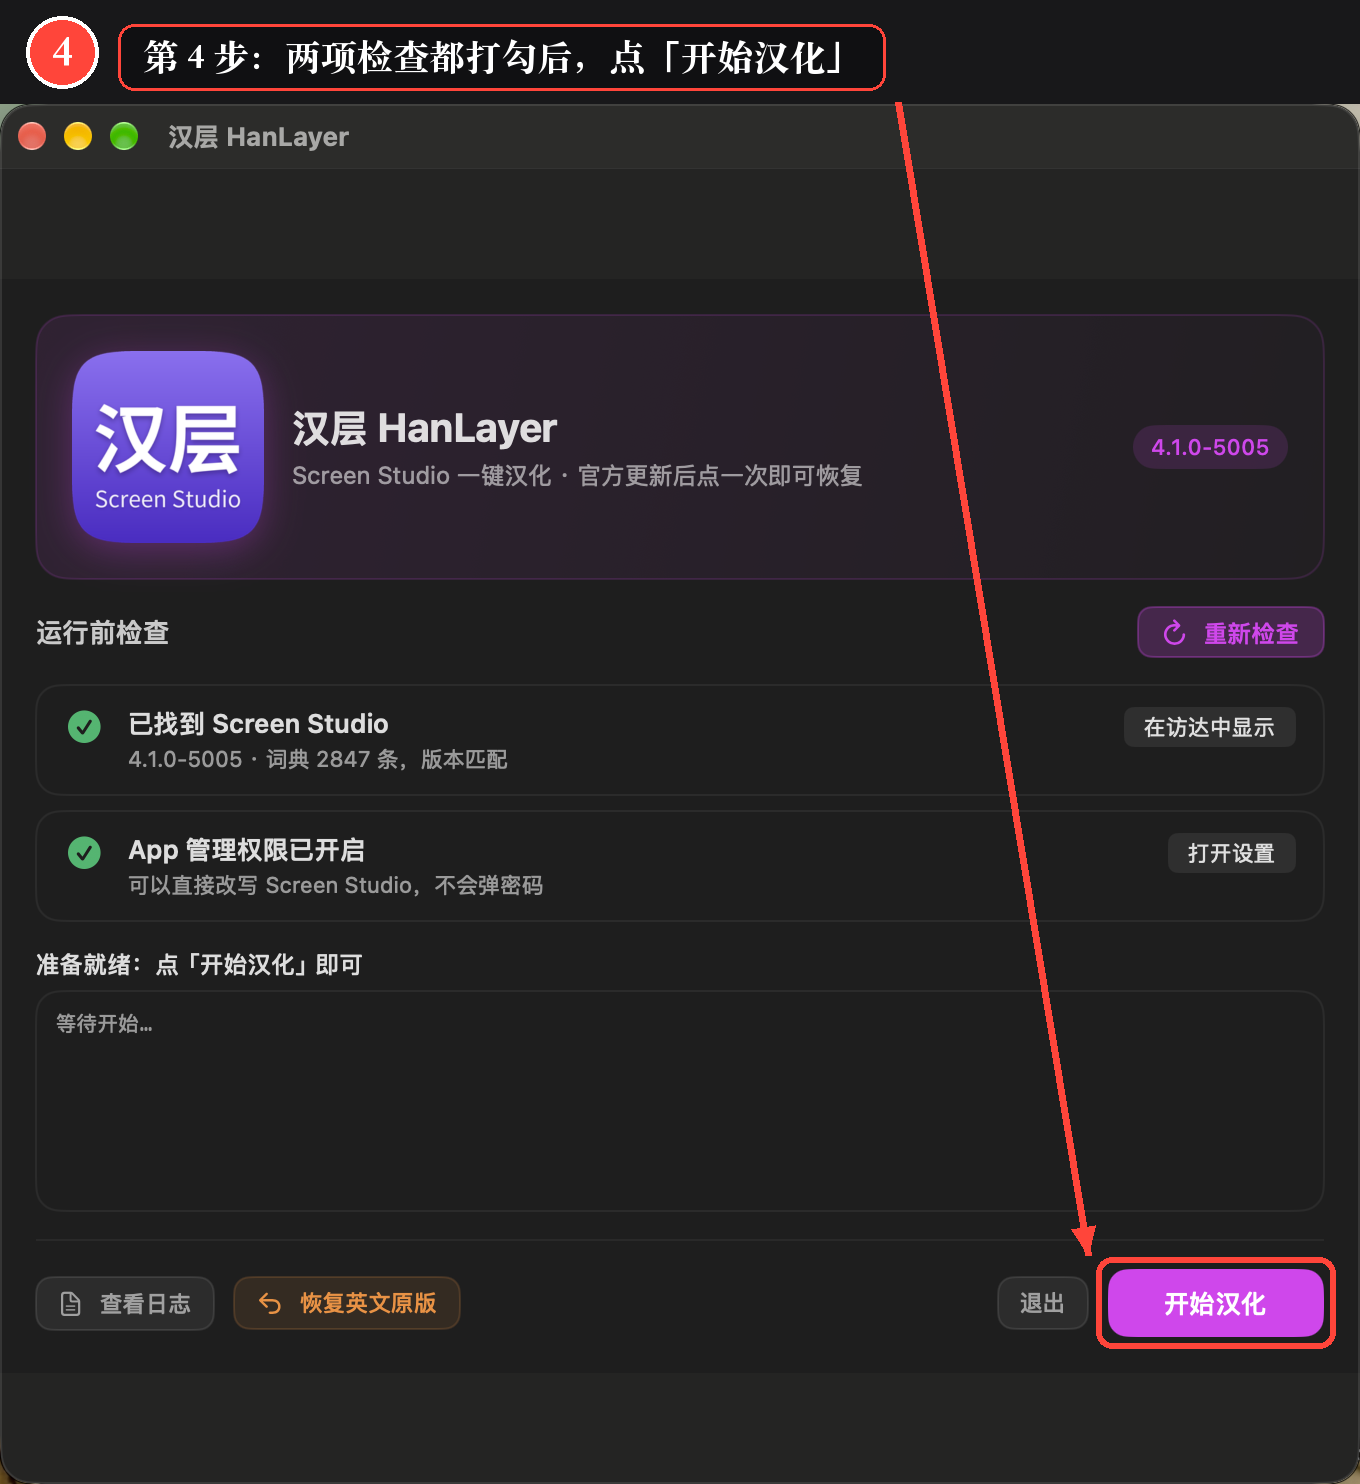
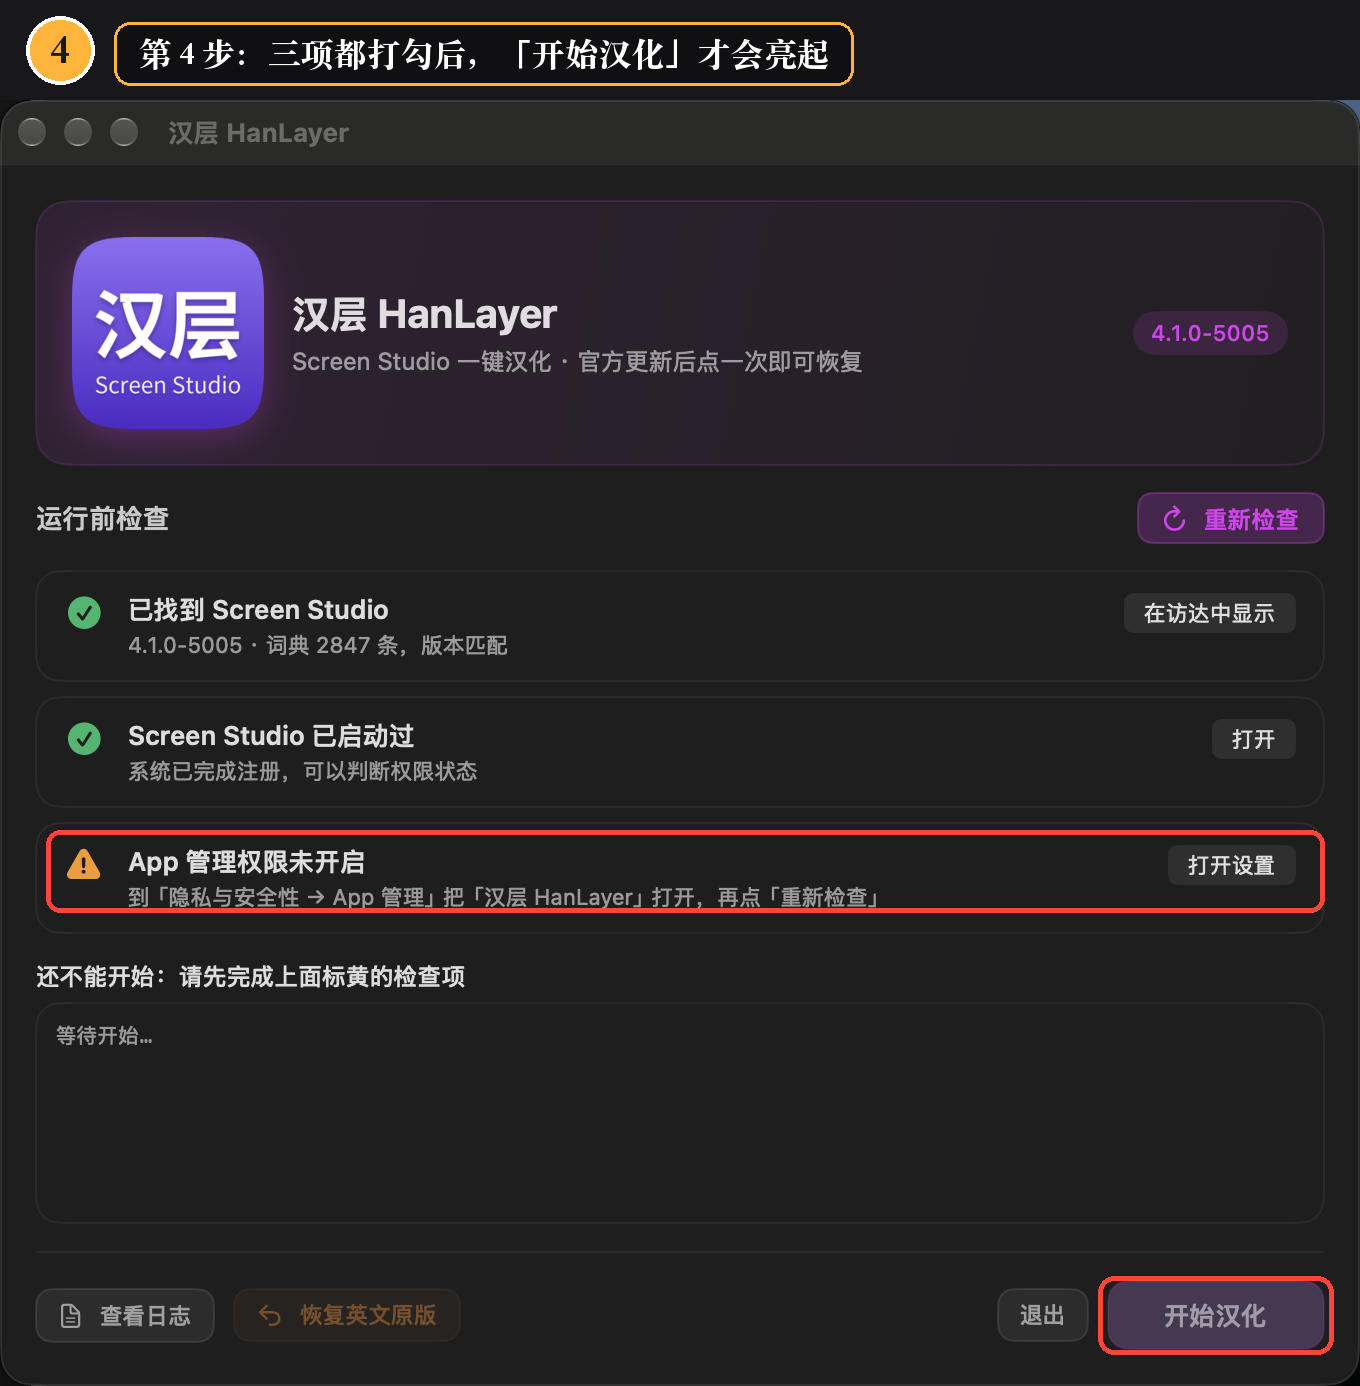
docs: 重写更新日志，去掉迭代过程中的矛盾条目

diff --git a/app-src/AppMain.swift b/app-src/AppMain.swift
@@ -47,6 +47,8 @@ final class Runner: ObservableObject {
 
     func refreshChecks() {
         var list: [Check] = []
+
+        // ① 是否安装
         if let app = ssPath {
             let info = NSDictionary(contentsOfFile: app + "/Contents/Info.plist")
             appVersion = info?["CFBundleShortVersionString"] as? String ?? "未知版本"
@@ -65,16 +67,27 @@ final class Runner: ObservableObject {
                                   action: { NSWorkspace.shared.open(URL(string: "https://screen.studio")!) },
                                   actionTitle: "查看官网"))
             }
-            // 用「实际能不能写进去」来判断，而不是猜系统开关。
-            // 但刚安装、没启动过的 App 保护还没生效，结果不可靠，单独提示。
+
+            // ② 是否启动过（启动后系统保护才生效，权限判断才有意义）
+            let ranBefore = hasRunBefore(app)
+            if ranBefore {
+                list.append(Check(ok: true,
+                                  title: "Screen Studio 已启动过",
+                                  detail: "系统已完成注册，可以判断权限状态",
+                                  action: { NSWorkspace.shared.open(URL(fileURLWithPath: app)) },
+                                  actionTitle: "打开"))
+            } else {
+                list.append(Check(ok: false,
+                                  title: "Screen Studio 还没启动过",
+                                  detail: "先双击打开一次它，系统完成注册后再点「重新检查」",
+                                  action: { NSWorkspace.shared.open(URL(fileURLWithPath: app)) },
+                                  actionTitle: "打开一次"))
+            }
+
+            // ③ 能否改写（App 管理权限）
             let writable = probeWritable(app)
             let quarantined = hasQuarantine(app)
-            let ranBefore = hasRunBefore(app)
-            // 这一项衡量的是「工具能不能改写 Screen Studio」，而不是系统里的开关状态。
-            // 系统不提供该开关的查询接口，且对本类自有 App 未必生效——用实测结果说话最可靠。
-            // 判断标准只有一条：能不能真的写进去。
-            // 未启动过时系统保护不生效、结果不可靠，同样按「未开启」处理——不放行。
-            if writable && ranBefore {
+            if ranBefore && writable {
                 list.append(Check(ok: true,
                                   title: "App 管理权限已开启",
                                   detail: "可以直接改写 Screen Studio，不会弹密码",
@@ -83,7 +96,7 @@ final class Runner: ObservableObject {
             } else {
                 let why: String
                 if !ranBefore {
-                    why = "Screen Studio 还没打开过，系统保护尚未生效，无法确认权限。先打开一次，再点「重新检查」"
+                    why = "Screen Studio 启动过之后才能确认，先完成上面第二项"
                 } else if quarantined {
                     why = "带有下载隔离标记：先执行 xattr -cr 去掉，或到「隐私与安全性 → App 管理」授权本程序"
                 } else {
@@ -95,13 +108,23 @@ final class Runner: ObservableObject {
                                   action: { self.openAppManagement() },
                                   actionTitle: "打开设置"))
             }
-            ready = writable && ranBefore
+            ready = ranBefore && writable
         } else {
             ready = false
             list.append(Check(ok: false, title: "没找到 Screen Studio",
                               detail: "默认找「应用程序」文件夹；装在别处就手动选，没装过就去官网下载",
                               action: { self.pickApp() },
                               actionTitle: "选择位置…"))
+            list.append(Check(ok: false,
+                              title: "Screen Studio 还没启动过",
+                              detail: "装好并打开一次之后再检查",
+                              action: { NSWorkspace.shared.open(URL(string: "https://screen.studio")!) },
+                              actionTitle: "去官网"))
+            list.append(Check(ok: false,
+                              title: "App 管理权限未开启",
+                              detail: "装好 Screen Studio 后会自动检测；也可以先到「隐私与安全性 → App 管理」把本程序打开",
+                              action: { self.openAppManagement() },
+                              actionTitle: "打开设置"))
         }
         checks = list
         if !running {
@@ -481,14 +504,23 @@ struct PrimaryPurpleButtonStyle: ButtonStyle {
     }
 }
 
+/// 测量 SwiftUI 内容的理想高度
+struct ContentHeightKey: PreferenceKey {
+    static var defaultValue: CGFloat = 0
+    static func reduce(value: inout CGFloat, nextValue: () -> CGFloat) {
+        value = max(value, nextValue())
+    }
+}
+
+/// 首帧把窗口放到屏幕中间；高度交由内容测量后调整
 struct WindowSizer: NSViewRepresentable {
     func makeNSView(context: Context) -> NSView {
         let v = NSView()
         DispatchQueue.main.async {
             if let w = v.window {
-                w.setContentSize(NSSize(width: 680, height: 690))
-                w.center()
                 w.title = "汉层 HanLayer"
+                w.styleMask.remove(.resizable)
+                w.center()
             }
         }
         return v
@@ -623,8 +655,26 @@ struct ContentView: View {
         }
         .padding(18)
         .frame(width: 680)
+        .fixedSize(horizontal: false, vertical: true)
         .background(Color(nsColor: .windowBackgroundColor))
         .background(WindowSizer())
+        .background(
+            GeometryReader { geo in
+                Color.clear.preference(key: ContentHeightKey.self, value: geo.size.height)
+            }
+        )
+        .onPreferenceChange(ContentHeightKey.self) { h in
+            guard h > 120, let w = NSApp.windows.first else { return }
+            let target = ceil(h)
+            let current = w.contentLayoutRect.height
+            guard abs(current - target) > 1 || abs(w.frame.width - 680) > 1 else { return }
+            var f = w.frame
+            let delta = target - current
+            f.size.height += delta
+            f.origin.y -= delta
+            f.size.width = 680 + (w.frame.width - w.contentLayoutRect.width)
+            w.setFrame(f, display: true)
+        }
         .onAppear { runner.refreshChecks() }
     }
 }

diff --git a/CHANGELOG.md b/CHANGELOG.md
@@ -1,76 +1,48 @@
 # 更新日志
 
-## v1.1 — 2026-11-12
-
-**新增**
-- 版本匹配提示：词典与已装 Screen Studio 版本不一致时显示橙色警告，而不是一片绿勾
-- 汉化结束输出体检数据：词典条目数 / 注入文件数 / 目标版本
-- 界面补译：条款同意页的 `I agree to the` / `Privacy Policy` / `and`，
-  以及背景图上传提示的 `while hovering.`（共 2847 条）
-
-**修复**
-- 签名证书未被信任时自动加入用户级信任，不再静默降级成 ad-hoc
-- 汉化前的环境检查更严格：签名不可用时在改动文件前停止，原 App 不受影响
-- 「开始汉化」与「恢复英文原版」在前置条件不满足时置灰禁用，满足后才可点击
-- 移除「运行环境已内置」与「汉化后需重新授权」两行，检查列表从四项精简到两项
-  （重新授权的说明仍保留在 README「汉化后第一次要重新授权」章节）
-- 词典条数改为构建时自动同步，不再手写
-- 检查项改为描述实际能力：「可以改写 / 尚未确认 / 无法改写 Screen Studio」，
-  是否启动过改用系统「最近使用时间」判断（偏好设置卸载后不删，会误判）
-  未启动或无法改写时一律禁用「开始汉化」，
-  不再声称系统「App 管理」开关的状态（该系统开关无法查询，且对自有 App 未必生效）
-- 重新加入「App 管理权限」检查项，但改为**实测能否写入**来决定绿勾或警告：
-  未授权时显示橙色提示并给出操作路径，同时禁用「开始汉化」
-- 移除会误判的 hardened runtime 前置检查（重签名已不带 runtime，不需要它拦）
-- 「系统不允许修改 Screen Studio」时给出可操作的指引，而不是直接报错退出
-- 「运行前检查」标题加大；「重新检查」改为带图标的紫色按钮（半透明底色，与主按钮同色系）
-- 精简检查列表：移除「还没装 Screen Studio？」提示行，未安装时只保留一条带「选择位置」的提示
-- **修复汉化后 App 无法启动**：重签名不再带 `--options runtime`。
-  hardened runtime 要求签名链锚定受信任的开发者身份，本地自签名证书满足不了，
-  系统会以「adhoc signed or signed by an unknown certificate chain」拒绝启动
-- 移除「App 管理权限」检查项：该系统权限在应用层无法查询，
-  且对用户自有的 App 不生效，继续显示只会造成误解；改为只检查是否找到 Screen Studio
-- 改写权限检测更准确：不只测新建文件，还会以写方式打开 Info.plist，
-  以真实写入能力作为判断依据
+## v1.1 — 2026-11-13
 
 首个公开发布版本。
 
-**汉化覆盖**
+### 汉化覆盖
+
 - 主窗口渲染层：DOM 文本、`placeholder`、`title`、`aria-label`、`alt`、`data-tooltip`
 - 早期初始化窗口（preload 注入）
 - 主进程逐窗口注入（`about:blank` 窗口也生效）
 - 菜单栏、窗口标题、原生对话框、系统通知
-- 原生右键菜单、录制选项弹层（IPC 载荷递归翻译）
-- AppKit 系统菜单项（`zh-Hans.lproj` + `CFBundleLocalizations`）
+- 语言声明：`zh-Hans.lproj` + `CFBundleLocalizations`，让系统菜单也跟着中文走
+- 词库 2847 条，随构建自动同步
 
-**词典**
-- 2841 条词条
-- 基于 Screen Studio 4.1.0（build 5005）
-- 刻意保留英文的：`Screen Studio`、`Unsplash`、`Raycast`、`macOS`、设备型号、音乐曲名、`MP4` / `ProRes` / `GIF` / `FPS` 等专有名词
+### 运行前检查
 
-**安装器**
-- DMG 拖拽安装，带背景图
-- App 名称为「汉层 HanLayer」，菜单栏、窗口标题、界面标题保持一致
-- 图标与界面徽标为「汉层」两字
-- 运行前自检：App 是否安装、版本号、「App 管理」权限、权限重置提醒
-- 一键回滚到英文原版
-- 自动备份原始 `app.asar`
-- 内置汉化引擎，无需额外安装 Python
-- 下载文件名为 `HanLayer-v1.1-ScreenStudio-4.1.0.dmg`，标出词典对应的官方版本
-- 应用菜单（关于 / 服务 / 隐藏 / 退出）与顶部菜单栏改为中文，不再由系统生成英文
-- 补充条款同意界面与背景图上传提示的漏译，共 2847 条
+界面固定显示三项，**全部通过才能点「开始汉化」**：
 
-**词典更新**
-- 补充激活界面的 `I am a new user` / `I am an existing user` 两条，共 2843 条
+1. **已找到 Screen Studio** —— 未找到时给「选择位置…」手动指定
+2. **Screen Studio 已启动过** —— 系统要完成注册，权限才可判定
+3. **App 管理权限已开启** —— 由引擎实际写一次文件判断，写不进去就是未开启
 
-**本次修复**
-- 签名身份未被信任时自动加入用户级信任（不需要管理员密码），不再直接失败
-- 汉化前的环境检查更严格：签名不可用时在改动文件前停止，原 App 不受影响
+任一项不通过时，「开始汉化」置灰；提示里会说明具体原因并给出下一步
+（去「隐私与安全性 → App 管理」授权，或先去掉下载隔离标记）。
 
-**已知问题**
-- 仅支持 Apple 芯片
-- 汉化前请先确认原版能正常打开；原版打不开通常是安装状态不干净，需彻底重装
-- Screen Studio 4.1.0 开启 hardened runtime，**ad-hoc 重签后会被系统拒绝启动**，
-  需要本机存在受信任的签名身份（详见 README「兼容性」）
-- 导出面板与授权界面未逐屏验证
-- 个别被 React 拆分的文本节点按片段翻译，读起来可能略生硬
+### 关键修复
+
+- **汉化后 App 无法启动**：重签名不再带 `--options runtime`。
+  hardened runtime 要求签名锚定受信任的开发者身份，本地自签名证书满足不了，
+  系统会以「adhoc signed or signed by an unknown certificate chain」直接拒绝启动。
+  只保留 `--deep`（Electron 必须逐层签名，否则 dyld 报 `Library missing`）。
+- **「系统不允许修改 Screen Studio」**：多半是 App 带着下载隔离标记，
+  提示里直接给出 `xattr -cr` 与授权两种解法，而不是干巴巴报错退出。
+- 证书未被信任时自动加入用户级信任，不再静默降级成 ad-hoc。
+
+### 体验
+
+- 汉化结束输出体检：词典条目数 / 注入文件数 / 目标版本
+- 版本与词典不一致时给橙色提示，说明新增界面可能仍是英文
+- 「运行前检查」标题加大，「重新检查」改为带图标的紫色半透明按钮
+- 未安装 Screen Studio 时只保留一条带「选择位置」的提示，不堆无用信息
+
+### 构建
+
+- 词库条数由构建脚本从 `dict.json` 自动写入，不再手写
+- 组装与签名改在 `/tmp` 完成后再搬回，避开 Finder 写回 `com.apple.FinderInfo`
+  导致的 `resource fork, Finder information, or similar detritus not allowed`

diff --git a/docs/electron-i18n.md b/docs/electron-i18n.md
@@ -1,7 +1,8 @@
-# 给 Electron 应用做外挂式汉化：不改原程序、随时可回滚
+# 给 Electron 应用做界面汉化：改写 asar + 重签名，随时可回滚
 
 本文以 [Screen Studio](https://screen.studio) 为例，讲怎么给一个成熟的 Electron 应用做界面汉化，
-**不修改业务逻辑、不破解授权、不动原安装包**，并且随时能一键还原。
+**不动业务逻辑、不破解授权、不动原始安装包**——只替换 `app.asar` 内的界面文案并重新签名，
+全程自动备份，随时能一键还原。
 
 文中的代码都来自本仓库（`engine/`、`build/`、`app-src/`），可以直接对照阅读。
 
@@ -269,6 +270,26 @@ run(['codesign', '--force', '--deep', '--sign', IDENTITY, app])   # 不要 --opt
 - 让用户在「系统设置 → 隐私与安全性 → App 管理」里勾选本程序（之后不再弹密码）
 - 或者接受每次输入管理员密码
 
+### 这个权限没法「查询」，只能实测
+
+系统不提供任何接口读取「本程序有没有 App 管理权限」——`tccutil` 只能重置不能查询，
+读 TCC 数据库需要「完全磁盘访问」。所以判断方式只有一条：**真的往目标 App 里写一个文件，看系统放不放行**。
+
+这条实测有两个容易踩的坑：
+
+1. **必须在同一进程身份下测**。用 Swift 在 GUI 进程里写能通过，不代表随后由它启动的子进程也能写。
+   稳妥做法是让真正执行改写的那段代码（引擎）自己跑一次检查，结果才和实际操作一致。
+2. **App 首次启动前，这层保护根本没生效**。刚拷进 `/Applications` 还没打开过的 App，
+   写入一律成功——此时测出来「有权限」是假的。所以要先确认目标 App 启动过（我用了系统记录的最近使用时间），
+   再判断权限，否则会放行一次注定失败的汉化。
+
+另外，`com.apple.quarantine` 标记也会让系统拒绝改写，报「不允许修改」。
+这种情况下先清标记往往比授权更快：
+
+```bash
+xattr -cr "/Applications/Screen Studio.app"
+```
+
 ### 不要用 root 启动 GUI
 
 如果用 `sudo` 提权后直接 `open` 应用，启动的进程属于 `root`，**拿不到当前登录用户的图形会话**，
@@ -326,8 +347,9 @@ def open_as_user(app):
 | 右键菜单英文 | 走了 IPC 载荷 | 递归翻译载荷里的 `label` |
 | 系统菜单项英文 | AppKit 本地化 | 加 `zh-Hans.lproj` + `CFBundleLocalizations` |
 | 每次都要重新授权 | ad-hoc 签名身份不稳定 | 改用固定本地证书 |
+| 启动即退、没有崩溃报告 | 重签名带了 `--options runtime` | 去掉 runtime，只保留 `--deep` |
 | 汉化后打不开 | 签名不完整 | 递归签名所有嵌套可执行文件 |
-| 提示要输密码 | 缺少 App Management 权限 | 引导用户勾选，或用管理员权限 |
+| 提示要输密码 / 不允许修改 | App Management 未授权，或 App 带下载隔离标记 | 授权本程序，或 `xattr -cr` 清标记 |
 
 ---
 

diff --git a/README.md b/README.md
@@ -115,10 +115,16 @@ xattr -dr com.apple.quarantine "/Applications/汉层 HanLayer.app"
 
 ### 第 4 步 · 点「开始汉化」
 
-确认两项检查都打勾——「已找到 Screen Studio」和「App 管理权限已开启」。
+三项检查全部打勾才可以开始：
 
-> 第二项显示橙色警告时，点它右侧的「打开设置」，
-> 在「隐私与安全性 → App 管理」里把「汉层 HanLayer」打开，回来点「重新检查」即可。
+| 检查项 | 条件 |
+| --- | --- |
+| 已找到 Screen Studio | 装好并在 `/Applications` 里 |
+| Screen Studio 已启动过 | 至少双击打开过一次（系统要完成注册，权限才可判定） |
+| App 管理权限已开启 | 工具能实际写入 Screen Studio |
+
+任何一项显示黄色叹号时，右下角「开始汉化」会保持灰色不可点。
+每项右侧都有对应的按钮——「选择位置…」「打开一次」「打开设置」，处理完点「重新检查」即可。
 
 然后点右下角「**开始汉化**」，进度条走完约 5～10 秒。
 
@@ -193,7 +199,7 @@ tccutil reset Accessibility com.timpler.screenstudio
 发布包 SHA-256（v1.1）：
 
 ```
[2 lines of base64/hex data omitted]
 ```
 
 核对方式：
